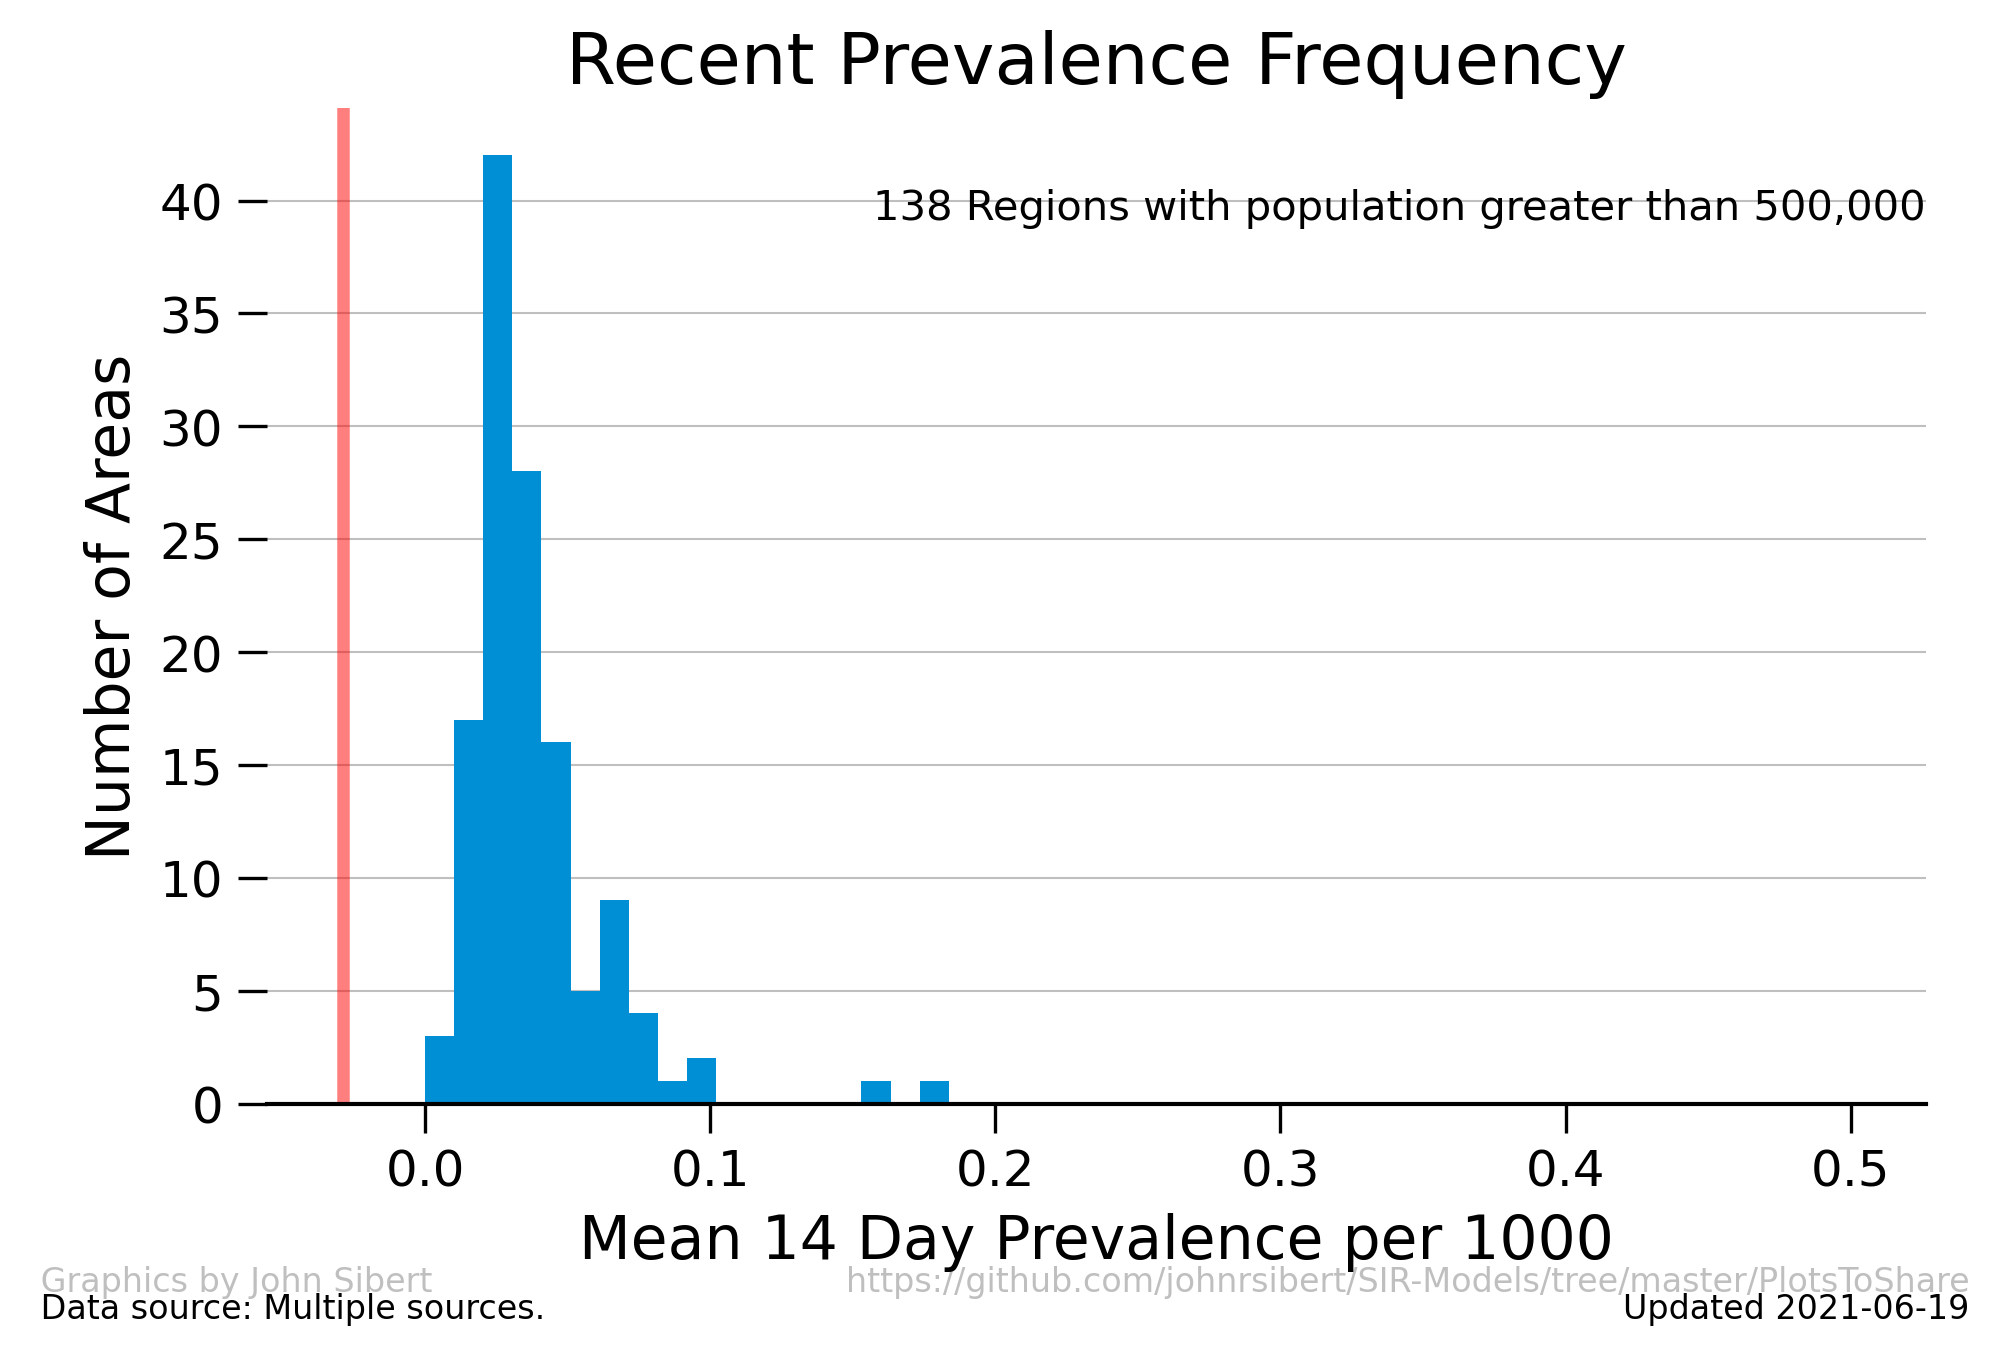
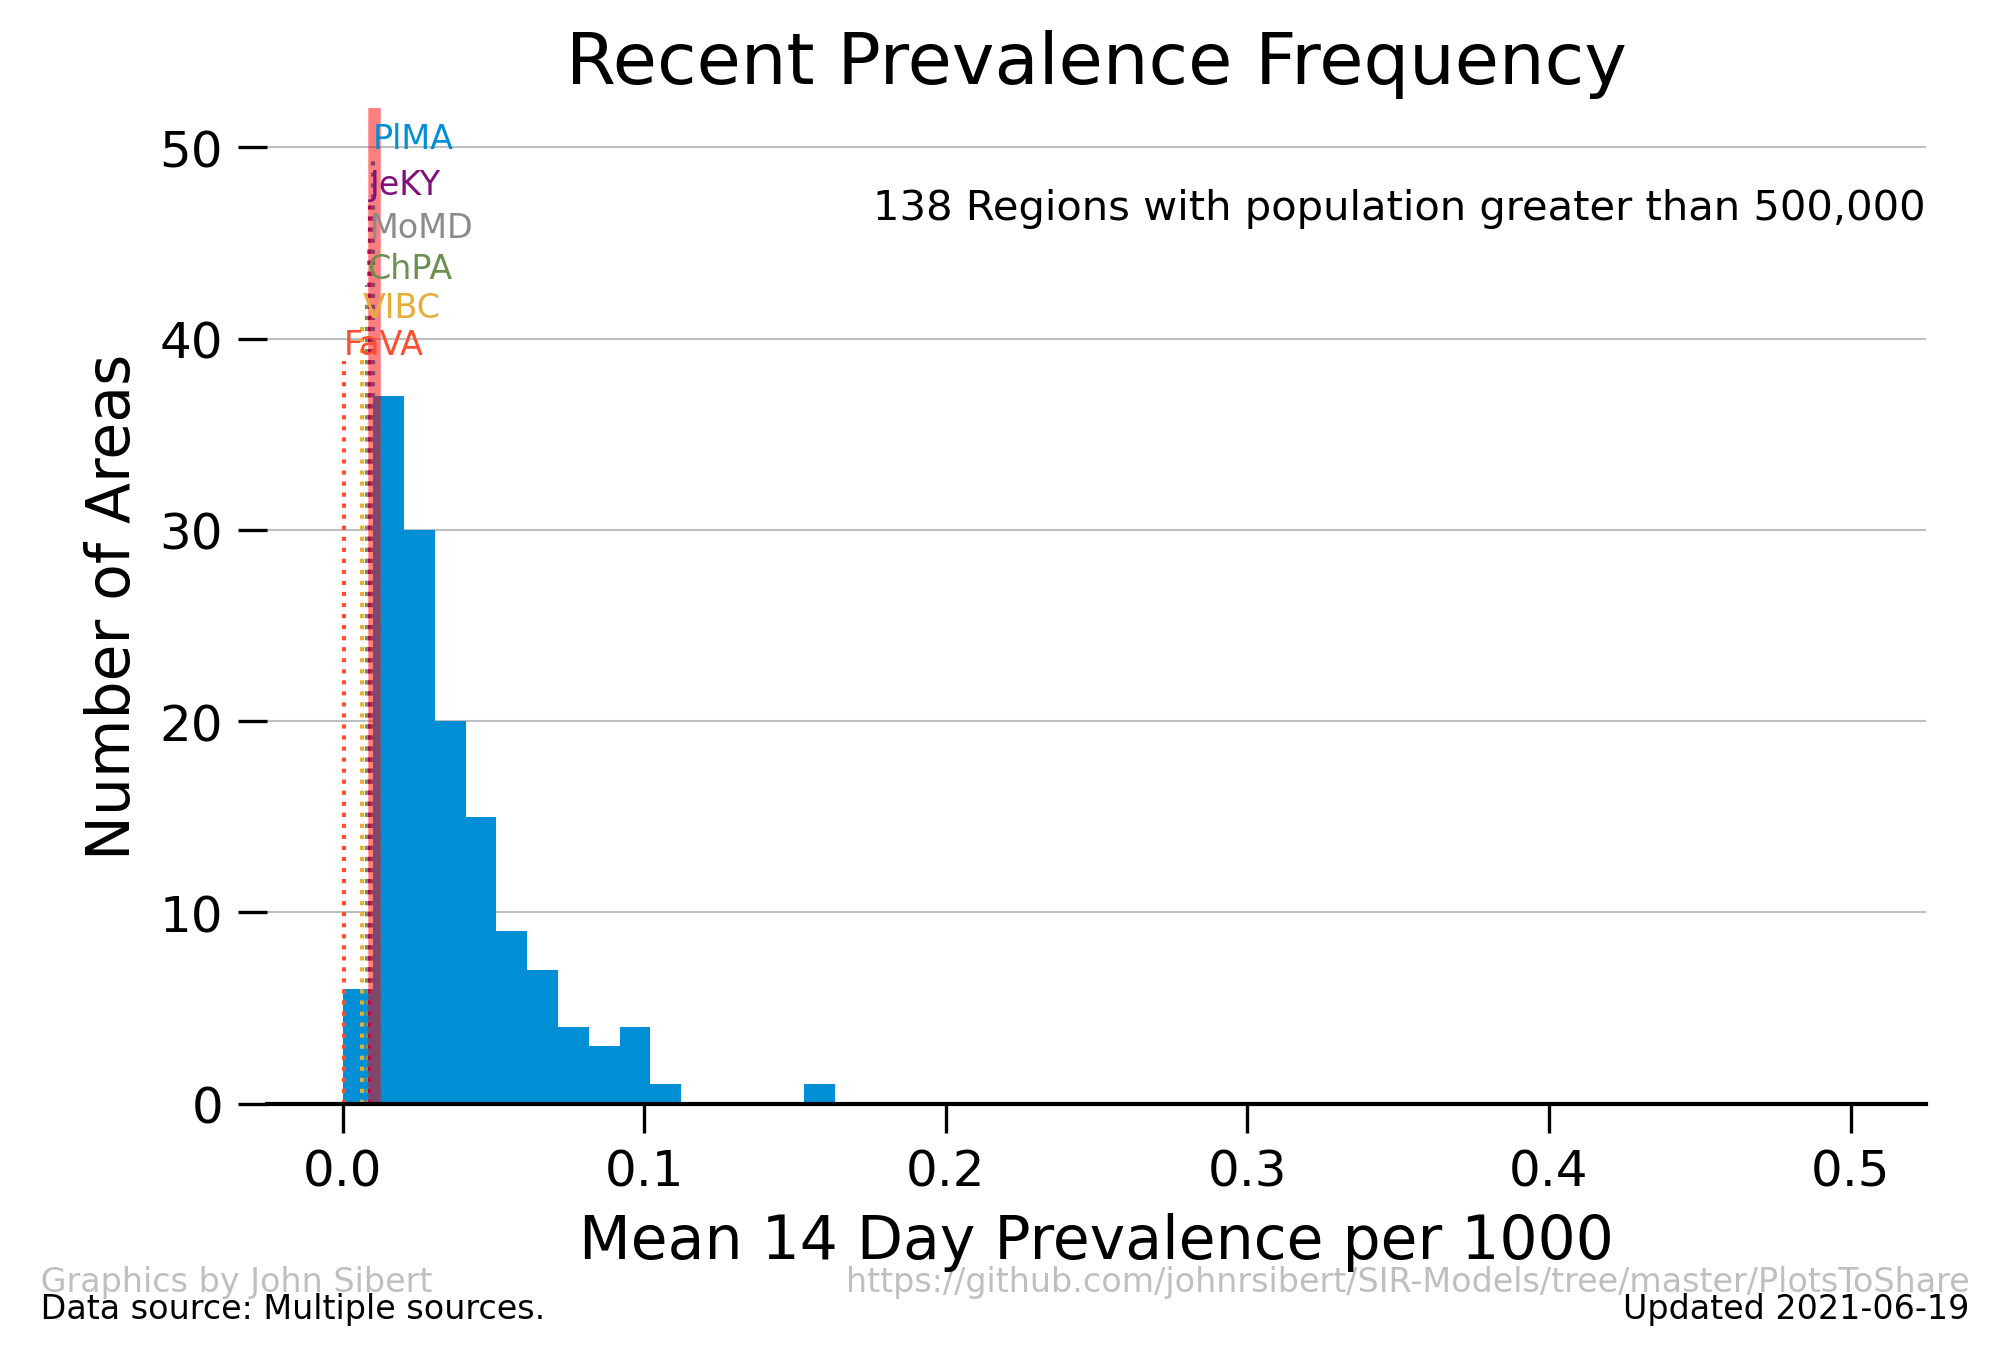
update histo_pop files in assets

diff --git a/assets/recent_prevalence_histo_pop.html b/assets/recent_prevalence_histo_pop.html
@@ -3,28 +3,28 @@
 <tr><th>Rank  </th><th>Region             </th><th style="text-align: right;">  Prevalence</th></tr>
 </thead>
 <tbody>
-<tr><td>0     </td><td>Vancouver Island BC</td><td style="text-align: right;">       0.007</td></tr>
-<tr><td>1     </td><td>Fairfax VA         </td><td style="text-align: right;">       0.012</td></tr>
-<tr><td>2     </td><td>Santa Clara CA     </td><td style="text-align: right;">       0.014</td></tr>
-<tr><td>3     </td><td>San Francisco CA   </td><td style="text-align: right;">       0.016</td></tr>
-<tr><td>4     </td><td>Collin TX          </td><td style="text-align: right;">       0.017</td></tr>
-<tr><td>5     </td><td>Orange CA          </td><td style="text-align: right;">       0.017</td></tr>
-<tr><td>6     </td><td>Riverside CA       </td><td style="text-align: right;">       0.020</td></tr>
-<tr><td>7     </td><td>Norfolk MA         </td><td style="text-align: right;">       0.020</td></tr>
-<tr><td>8     </td><td>Montgomery MD      </td><td style="text-align: right;">       0.020</td></tr>
-<tr><td>9     </td><td>Ventura CA         </td><td style="text-align: right;">       0.021</td></tr>
+<tr><td>0     </td><td>Williamson TX      </td><td style="text-align: right;">      -0.024</td></tr>
+<tr><td>1     </td><td>Fairfax VA         </td><td style="text-align: right;">       0.000</td></tr>
+<tr><td>2     </td><td>Vancouver Island BC</td><td style="text-align: right;">       0.007</td></tr>
+<tr><td>3     </td><td>Chester PA         </td><td style="text-align: right;">       0.008</td></tr>
+<tr><td>4     </td><td>Montgomery MD      </td><td style="text-align: right;">       0.009</td></tr>
+<tr><td>5     </td><td>Jefferson KY       </td><td style="text-align: right;">       0.009</td></tr>
+<tr><td>6     </td><td>Plymouth MA        </td><td style="text-align: right;">       0.010</td></tr>
+<tr><td>7     </td><td>Norfolk MA         </td><td style="text-align: right;">       0.011</td></tr>
+<tr><td>8     </td><td>Middlesex MA       </td><td style="text-align: right;">       0.011</td></tr>
+<tr><td>9     </td><td>Pima AZ            </td><td style="text-align: right;">       0.011</td></tr>
 <tr><td>...   </td><td>...                </td><td style="text-align: right;">         ...</td></tr>
-<tr><td>128   </td><td>Monroe NY          </td><td style="text-align: right;">       0.097</td></tr>
-<tr><td>129   </td><td>Hillsborough FL    </td><td style="text-align: right;">       0.098</td></tr>
-<tr><td>130   </td><td>Miami-Dade FL      </td><td style="text-align: right;">       0.101</td></tr>
-<tr><td>131   </td><td>Marion IN          </td><td style="text-align: right;">       0.102</td></tr>
-<tr><td>132   </td><td>Arapahoe CO        </td><td style="text-align: right;">       0.104</td></tr>
-<tr><td>133   </td><td>Adams CO           </td><td style="text-align: right;">       0.108</td></tr>
-<tr><td>134   </td><td>Providence RI      </td><td style="text-align: right;">       0.153</td></tr>
-<tr><td>135   </td><td>Pierce WA          </td><td style="text-align: right;">       0.185</td></tr>
-<tr><td>136   </td><td>El Paso CO         </td><td style="text-align: right;">       0.228</td></tr>
-<tr><td>137   </td><td>Spokane WA         </td><td style="text-align: right;">       0.249</td></tr>
+<tr><td>128   </td><td>Broward FL         </td><td style="text-align: right;">       0.080</td></tr>
+<tr><td>129   </td><td>Hillsborough FL    </td><td style="text-align: right;">       0.082</td></tr>
+<tr><td>130   </td><td>Orange FL          </td><td style="text-align: right;">       0.086</td></tr>
+<tr><td>131   </td><td>Adams CO           </td><td style="text-align: right;">       0.091</td></tr>
+<tr><td>132   </td><td>Utah UT            </td><td style="text-align: right;">       0.092</td></tr>
+<tr><td>133   </td><td>Clark NV           </td><td style="text-align: right;">       0.097</td></tr>
+<tr><td>134   </td><td>Duval FL           </td><td style="text-align: right;">       0.097</td></tr>
+<tr><td>135   </td><td>Miami-Dade FL      </td><td style="text-align: right;">       0.102</td></tr>
+<tr><td>136   </td><td>Spokane WA         </td><td style="text-align: right;">       0.112</td></tr>
+<tr><td>137   </td><td>El Paso CO         </td><td style="text-align: right;">       0.157</td></tr>
 </tbody>
 </table><br>
-Updated 2021-06-06<br>
+Updated 2021-06-19<br>
 <!---END TABLE--->

diff --git a/python/cv21.py b/python/cv21.py
@@ -313,13 +313,14 @@ def update_shared_plots():
                                               signature=True)
     print('precalence quartiles:',type(quartiles))
     print(quartiles)
-    print(quartiles[0.05])
+    print('q[0.05] =',quartiles[0.05])
     update_html()
 
     nyt_counties = pd.read_csv(cv.GeoIndexPath,header=0,comment='#')
     gg_filter = nyt_counties['flag'].str.contains('s')
 #   print(gg_filter)
     gg = nyt_counties[gg_filter]
+    print('gg:')
     print(gg)
     save_path = cv.graphics_path
     cv.graphics_path = cv.cv_home+'PlotsToShare/'
@@ -450,6 +451,8 @@ def update_html():
 #   print(tmp)
  
     cmd = 'git -C ' + cv.Jon_path + ' pull'
+    print(cmd)
+    os.system(cmd)
     table = cv.assets_path+'recent_prevalence_histo_pop.html'
 #   print(table)
     cmd = 'cp -fv '+index_md + ' ' +index_md +'.bak'
@@ -584,7 +587,11 @@ def git_commit_push():
     os.system('git commit ~/Projects/SIR-Models/assets/\*.png -m "Update assets"')
     os.system('git push')
     cmd = 'git -C ' + cv.Jon_path + " commit index.md -m 'update table'"
+    print(cmd)
+    os.system(cmd)
     cmd = 'git -C ' + cv.Jon_path + ' push'
+    print(cmd)
+    os.system(cmd)
 
 def CFR_comp(nG=5):
     d1 = cv.nyt_county_dat['date'][0]
@@ -905,7 +912,6 @@ print('matplotib:',matplotlib.__version__)
 
 
 #web_update()
-#update_shared_plots()
 #make_dat_files()
 #update_fits()
 #FF.make_fit_plots()
@@ -926,8 +932,8 @@ print('matplotib:',matplotlib.__version__)
 #FF.make_rate_plots('logmu',save=True)
 #update_assets()
 
-#update_everything(do_fits=False)
-#git_commit_push()
+#update_everything()#do_fits=False)
+git_commit_push()
 
 # midsummer beta minima
 # BrowardFL.RData -6.084748271893833
@@ -942,5 +948,6 @@ print('matplotib:',matplotlib.__version__)
 #GG.plot_prevalence_comp_TS(flag='H',save=True, signature=True)
 #GG.plot_prevalence_comp_TS(flag='m',save=True, signature=True)
 #GG.plot_prevalence_comp_histo(flag='500000',window=14,save=True, signature=True)
+#update_shared_plots()
 #update_html()
 #CFR.plot_recent_CFR(save=True)
